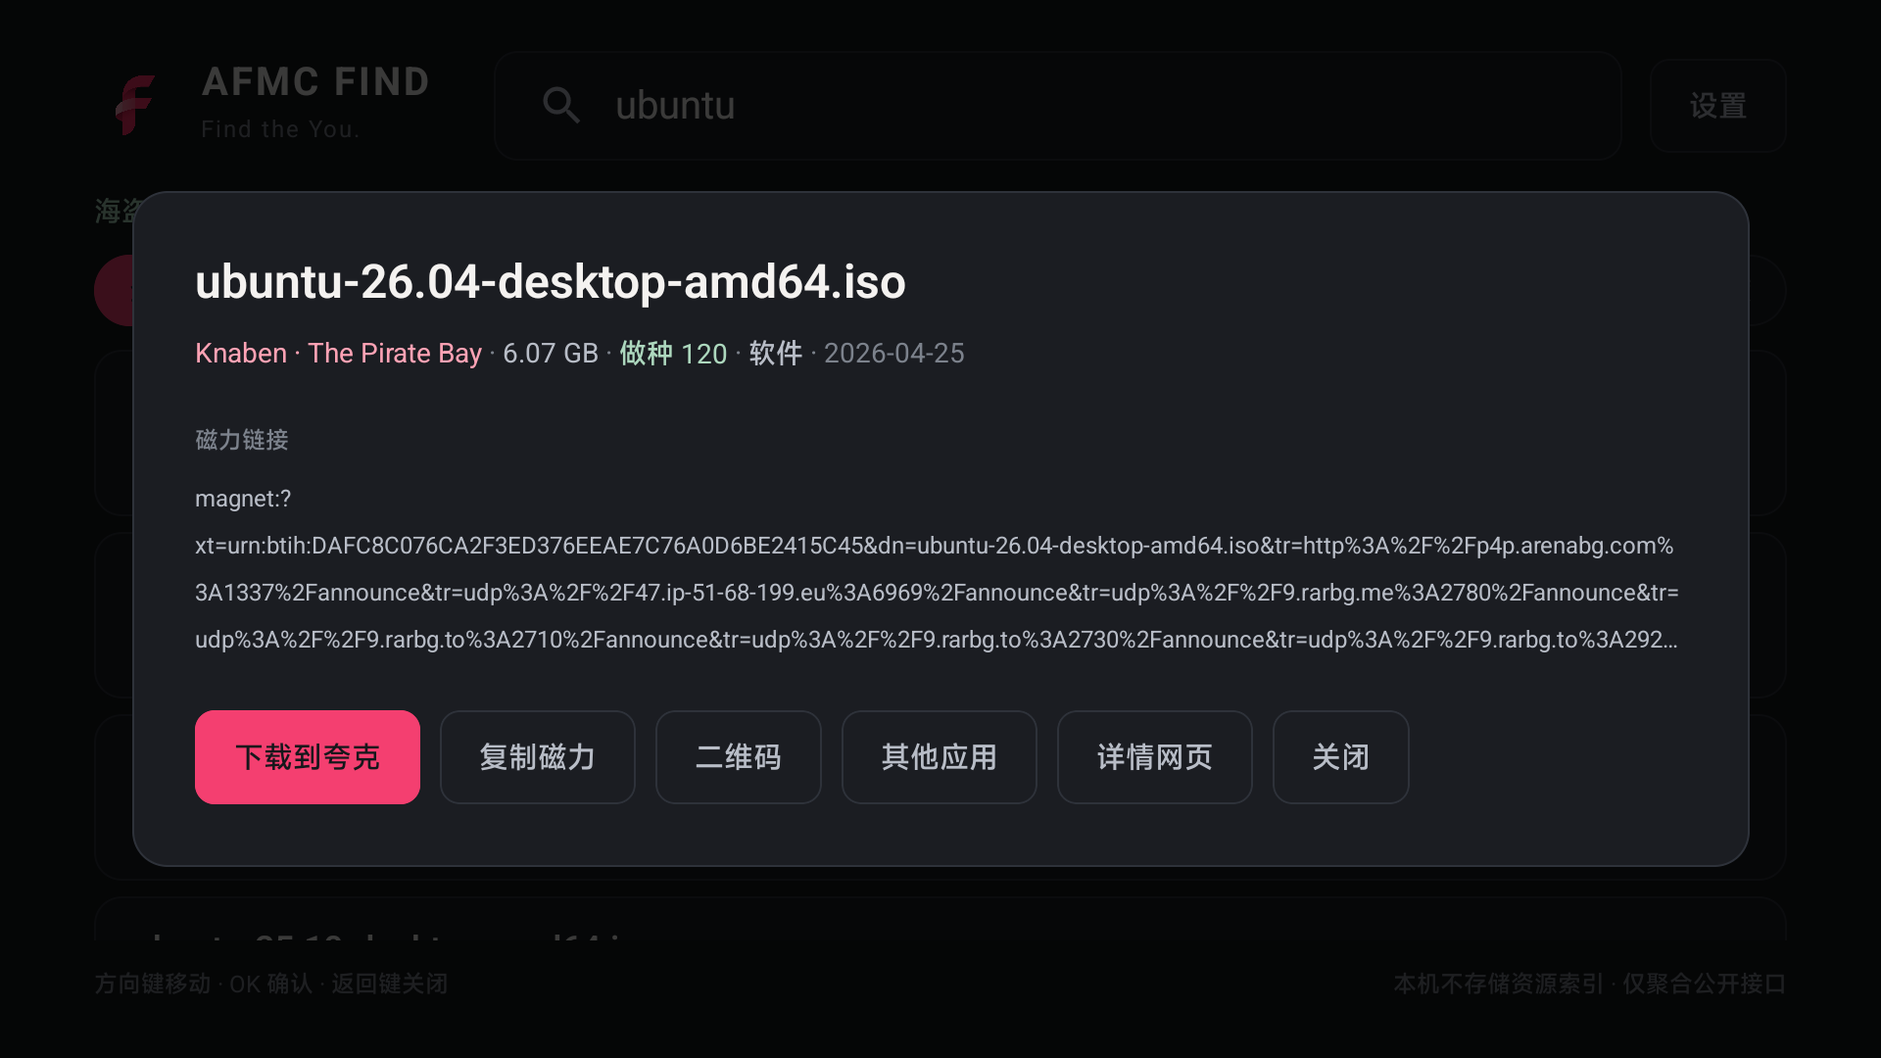
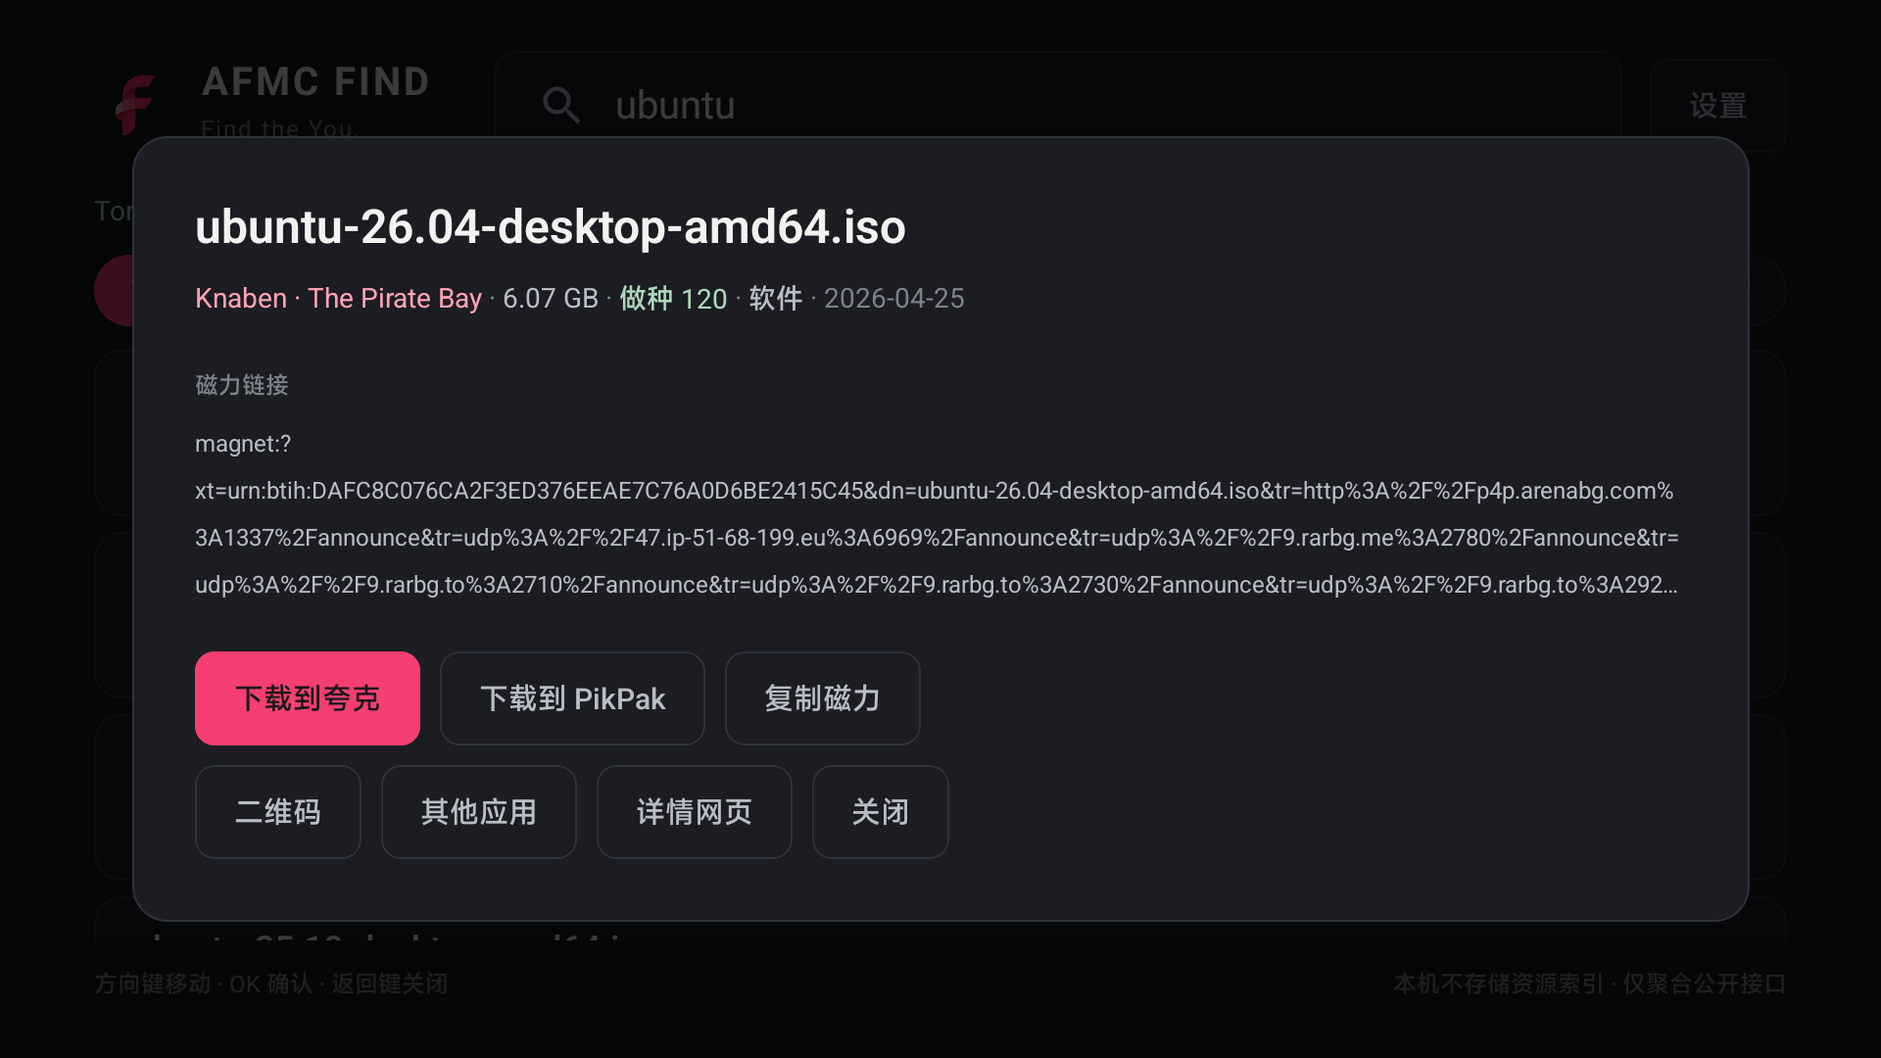
Nyaa 默认关闭并迁移老配置；详情页新增 PikPak 一键下载；排序器按查询上下文复用并缓存 canonical，首屏降至 0.34s

diff --git a/app/src/main/java/com/afmc/find/tv/core/Ranking.kt b/app/src/main/java/com/afmc/find/tv/core/Ranking.kt
@@ -9,8 +9,11 @@ import kotlin.math.min
 
 /**
  * Port of the desktop SearchQuality rules: canonicalisation, hard constraints, match tiers and scoring.
- * All patterns are compiled once at class-load time — compiling them per row made ranking of a few hundred
- * rows take seconds on a TV CPU.
+ *
+ * Ranking hot path notes (TV CPU is slow):
+ * - every Regex is compiled once at class load;
+ * - query-derived values (canonical form, constraint tokens, software flag) are computed once per search;
+ * - canonical(title) is memoised because the same title is canonicalised several times per row.
  */
 object Ranking {
     private val CJK = Regex("[\\u3400-\\u9fff]")
@@ -55,6 +58,11 @@ object Ranking {
         RegexOption.IGNORE_CASE,
     )
 
+    /** Bounded LRU of canonical titles; the same row is canonicalised 3–4 times while ranking. */
+    private val canonicalCache = object : LinkedHashMap<String, String>(256, 0.75f, true) {
+        override fun removeEldestEntry(eldest: MutableMap.MutableEntry<String, String>) = size > 4096
+    }
+
     fun canonical(text: String): String {
         var s = Normalizer.normalize(text, Normalizer.Form.NFKC).lowercase()
         s = s.replace("中文字幕", "中字")
@@ -69,6 +77,10 @@ object Ranking {
         s = RE_4K.replace(s, "2160p")
         s = RE_8K.replace(s, "4320p")
         return RE_NON_WORD.replace(s, " ").trim()
+    }
+
+    private fun canonicalCached(text: String): String = synchronized(canonicalCache) {
+        canonicalCache.getOrPut(text) { canonical(text) }
     }
 
     private fun chineseNumber(raw: String): Int {
@@ -88,45 +100,57 @@ object Ranking {
         else " $text ".contains(" $token ")
 
     fun constraints(query: String): List<String> {
-        val canonical = canonical(query)
+        val c = canonical(query)
         val out = LinkedHashSet<String>()
-        RE_CONSTRAINT.findAll(canonical).forEach { out.add(it.value.lowercase()) }
+        RE_CONSTRAINT.findAll(c).forEach { out.add(it.value.lowercase()) }
         RE_VERSION.findAll(query).forEach { out.add(canonical(it.value)) }
-        listOf("国语", "粤语", "中字", "双语").forEach { if (canonical.contains(it)) out.add(it) }
+        listOf("国语", "粤语", "中字", "双语").forEach { if (c.contains(it)) out.add(it) }
         return out.toList()
     }
 
+    /** Everything derived from the query, computed once per search instead of once per row. */
+    class QueryContext(query: String) {
+        val canonical: String = canonical(query)
+        val constraints: List<String> = constraints(query)
+        val tokens: List<String> = canonical.split(' ').filter { it.isNotBlank() }.distinct()
+        val nameTokens: List<String> = run {
+            var name = " $canonical "
+            constraints.forEach { name = name.replace(" $it ", " ") }
+            name.split(' ').filter { it.isNotBlank() }.distinct()
+        }
+        val softwareQuery: Boolean = categoryOf(TorrentResult(title = query, source = "query")) == "软件"
+        val hasVersion: Boolean = RE_DIGIT_DOT.containsMatchIn(query)
+        val extrasInQuery: Boolean = RE_EXTRA.containsMatchIn(query)
+        val seriesQuery: Boolean = RE_SERIES.containsMatchIn(canonical)
+    }
+
     fun matchesConstraints(query: String, title: String): Boolean {
-        val t = canonical(title)
+        val t = canonicalCached(title)
         return constraints(query).all { containsToken(t, it) }
     }
 
     /** 0 = name and constraints matched, 1 = name matched but constraints missing, 2 = partial, 3 = no name match. */
-    fun matchTier(query: String, title: String): Int {
-        val q = canonical(query)
+    fun matchTier(ctx: QueryContext, title: String): Int {
+        val q = ctx.canonical
         if (q.isEmpty()) return 0
-        val cons = constraints(query)
-        var name = " $q "
-        cons.forEach { name = name.replace(" $it ", " ") }
-        val tokens = name.split(' ').filter { it.isNotBlank() }.distinct()
-        val t = canonical(title)
-        if (tokens.isEmpty()) return if (cons.all { containsToken(t, it) }) 0 else 3
+        val tokens = ctx.nameTokens
+        val t = canonicalCached(title)
+        if (tokens.isEmpty()) return if (ctx.constraints.all { containsToken(t, it) }) 0 else 3
         val matched = tokens.count { containsToken(t, it) }
         if (matched == 0) return 3
         if (matched < tokens.size) return 2
-        return if (cons.all { containsToken(t, it) }) 0 else 1
+        return if (ctx.constraints.all { containsToken(t, it) }) 0 else 1
     }
 
-    private fun nameOrderScore(query: String, title: String): Double {
-        var name = " " + canonical(query) + " "
-        constraints(query).forEach { name = name.replace(" $it ", " ") }
-        name = RE_CODE_SUFFIX.replace(name, "")
-        val tokens = name.split(' ').filter { it.isNotBlank() }
+    fun matchTier(query: String, title: String): Int = matchTier(QueryContext(query), title)
+
+    private fun nameOrderScore(ctx: QueryContext, title: String): Double {
+        val tokens = ctx.nameTokens
         if (tokens.isEmpty()) return 0.0
 
         var clean = RE_TITLE_PREFIX.replace(title, "")
         clean = RE_URL_PREFIX.replace(clean, "")
-        val words = canonical(clean).split(' ').filter { it.isNotBlank() }
+        val words = canonicalCached(clean).split(' ').filter { it.isNotBlank() }
 
         var position = -1
         var first = -1
@@ -140,17 +164,17 @@ object Ranking {
             position = found
         }
         var seriesBonus = 0.0
-        if (RE_SERIES.containsMatchIn(canonical(query))) {
+        if (ctx.seriesQuery) {
             val boundary = words.indexOfFirst { RE_SERIES_BOUNDARY.matches(it) }
             if (boundary > 0 && words.take(boundary) == tokens) seriesBonus = 24.0
         }
         return 12.0 + (if (first == 0) 30.0 else if (first <= 2) 12.0 else 0.0) + seriesBonus
     }
 
-    fun score(query: String, row: TorrentResult, nowSeconds: Long): Double {
-        val q = canonical(query)
-        val title = canonical(row.title)
-        val tokens = q.split(' ').filter { it.isNotBlank() }.distinct()
+    fun score(ctx: QueryContext, row: TorrentResult, nowSeconds: Long): Double {
+        val q = ctx.canonical
+        val title = canonicalCached(row.title)
+        val tokens = ctx.tokens
         if (tokens.isEmpty()) return 0.0
         val coverage = tokens.count { containsToken(title, it) }.toDouble() / tokens.size
 
@@ -158,15 +182,14 @@ object Ranking {
         val tags = techTags(row.title)
 
         var score = 70.0 * coverage * coverage + if (q == title) 5.0 else 0.0
-        score += nameOrderScore(query, row.title)
+        score += nameOrderScore(ctx, row.title)
         if (category != "其他") score += 8.0
         if (tags.isNotEmpty()) score += 8.0
         if (q == title && category == "其他" && tags.isEmpty()) score -= 10.0
 
-        val softwareQuery = categoryOf(TorrentResult(title = query, source = "query")) == "软件"
-        if ((softwareQuery || RE_DIGIT_DOT.containsMatchIn(query)) && !RE_EXTRA.containsMatchIn(query)) {
+        if ((ctx.softwareQuery || ctx.hasVersion) && !ctx.extrasInQuery) {
             if (RE_EXTRA.containsMatchIn(row.title)) score -= 30.0
-            if (softwareQuery && (category == "书籍" || RE_VIDEO_FILE.containsMatchIn(row.title))) score -= 35.0
+            if (ctx.softwareQuery && (category == "书籍" || RE_VIDEO_FILE.containsMatchIn(row.title))) score -= 35.0
         }
 
         score += min(20.0, log10(1.0 + max(0, row.seeders ?: 0)) * 5.0)
@@ -176,9 +199,11 @@ object Ranking {
                 score += 5.0 / (1.0 + days / 365.0)
             }
         }
-        score -= constraints(query).count { !containsToken(title, it) } * 100.0
+        score -= ctx.constraints.count { !containsToken(title, it) } * 100.0
         return score
     }
+
+    fun score(query: String, row: TorrentResult, nowSeconds: Long): Double = score(QueryContext(query), row, nowSeconds)
 
     fun categoryOf(row: TorrentResult): String {
         val text = (row.category + " " + row.title).lowercase()
@@ -200,9 +225,8 @@ object Ranking {
         RE_TECH.findAll(title).map { it.value }.distinct().take(5).toList()
 
     fun rankAll(query: String, rows: List<TorrentResult>, nowSeconds: Long = System.currentTimeMillis() / 1000): List<SearchHit> {
-        val hits = rows.map { row ->
-            SearchHit(row, matchTier(query, row.title), score(query, row, nowSeconds))
-        }
+        val ctx = QueryContext(query)
+        val hits = rows.map { row -> SearchHit(row, matchTier(ctx, row.title), score(ctx, row, nowSeconds)) }
         return hits.sortedWith(
             compareBy<SearchHit> { it.tier }
                 .thenByDescending { it.score }

diff --git a/app/src/main/java/com/afmc/find/tv/ui/Overlays.kt b/app/src/main/java/com/afmc/find/tv/ui/Overlays.kt
@@ -139,33 +139,60 @@ fun DetailOverlay(hit: SearchHit, onClose: () -> Unit) {
                 overflow = TextOverflow.Ellipsis,
             )
 
-            Spacer(Modifier.height(24.dp))
+            Spacer(Modifier.height(22.dp))
+            val quarkIntent = remember { launcherIntent(context, "com.quark.yun.tv") }
+            val pikpakInstalled = remember {
+                runCatching { context.packageManager.getPackageInfo("com.pikcloud.pikpak", 0) }.isSuccess
+            }
+            val magnet = result.magnet
+            val hasQuark = quarkIntent != null
+            val hasPikpak = pikpakInstalled && !magnet.isNullOrBlank()
+
             Row(horizontalArrangement = Arrangement.spacedBy(10.dp)) {
-                val quarkIntent = remember { launcherIntent(context, "com.quark.yun.tv") }
-                ActionButton(
-                    text = if (quarkIntent != null) "下载到夸克" else "打开磁力",
-                    accent = true,
-                    modifier = Modifier.focusRequester(firstFocus),
-                    onClick = {
-                        val magnet = result.magnet
-                        when {
-                            magnet.isNullOrBlank() -> Toast.makeText(context, "这条结果没有磁力链接", Toast.LENGTH_SHORT).show()
-                            quarkIntent != null -> {
+                when {
+                    hasQuark -> ActionButton(
+                        text = "下载到夸克",
+                        accent = true,
+                        modifier = Modifier.focusRequester(firstFocus),
+                        onClick = {
+                            if (magnet.isNullOrBlank()) {
+                                Toast.makeText(context, "这条结果没有磁力链接", Toast.LENGTH_SHORT).show()
+                            } else {
                                 copyText(context, magnet, "磁力已复制，在夸克「离线下载」里粘贴")
                                 runCatching {
-                                    context.startActivity(quarkIntent.addFlags(Intent.FLAG_ACTIVITY_NEW_TASK))
+                                    context.startActivity(quarkIntent!!.addFlags(Intent.FLAG_ACTIVITY_NEW_TASK))
                                 }.onFailure {
                                     Toast.makeText(context, "无法打开夸克，磁力已复制", Toast.LENGTH_LONG).show()
                                 }
                             }
-                            else -> openUri(context, magnet)
-                        }
-                    },
-                )
-                if (!result.magnet.isNullOrBlank()) {
-                    ActionButton("复制磁力", onClick = { copyText(context, result.magnet, "已复制磁力链接") })
+                        },
+                    )
+                    hasPikpak -> ActionButton(
+                        text = "下载到 PikPak",
+                        accent = true,
+                        modifier = Modifier.focusRequester(firstFocus),
+                        onClick = { sendMagnet(context, "com.pikcloud.pikpak", magnet) },
+                    )
+                    else -> ActionButton(
+                        text = "打开磁力",
+                        accent = true,
+                        modifier = Modifier.focusRequester(firstFocus),
+                        onClick = { openUri(context, magnet) },
+                    )
+                }
+                if (hasQuark && hasPikpak) {
+                    ActionButton("下载到 PikPak", onClick = { sendMagnet(context, "com.pikcloud.pikpak", magnet) })
+                }
+                if (!magnet.isNullOrBlank()) {
+                    ActionButton("复制磁力", onClick = { copyText(context, magnet, "已复制磁力链接") })
+                }
+            }
+
+            Spacer(Modifier.height(10.dp))
+            Row(horizontalArrangement = Arrangement.spacedBy(10.dp)) {
+                if (!magnet.isNullOrBlank()) {
                     ActionButton("二维码", onClick = { showQr = true }, modifier = Modifier.focusRequester(qrFocus))
-                    ActionButton("其他应用", onClick = { openUri(context, result.magnet) })
+                    ActionButton("其他应用", onClick = { openUri(context, magnet) })
                 }
                 result.detailsUrl?.let { url ->
                     ActionButton("详情网页", onClick = { openUri(context, url) })
@@ -480,6 +507,16 @@ private fun launcherIntent(context: Context, packageName: String): Intent? {
         addCategory(Intent.CATEGORY_LEANBACK_LAUNCHER)
         component = android.content.ComponentName(info.packageName, info.name)
         addFlags(Intent.FLAG_ACTIVITY_NEW_TASK)
+    }
+}
+
+private fun sendMagnet(context: Context, packageName: String, magnet: String?) {
+    if (magnet.isNullOrBlank()) return
+    val intent = Intent(Intent.ACTION_VIEW, Uri.parse(magnet))
+        .setPackage(packageName)
+        .addFlags(Intent.FLAG_ACTIVITY_NEW_TASK)
+    runCatching { context.startActivity(intent) }.onFailure {
+        copyText(context, magnet, "无法直接打开，磁力已复制")
     }
 }
 

diff --git a/app/src/main/java/com/afmc/find/tv/core/SearchEngine.kt b/app/src/main/java/com/afmc/find/tv/core/SearchEngine.kt
@@ -18,6 +18,17 @@ import java.util.Collections
 class Prefs(context: Context) {
     private val sp = context.getSharedPreferences("afmc_find_tv", Context.MODE_PRIVATE)
 
+    init {
+        // 1.3.0 起 Nyaa 默认关闭：老安装一次性从启用列表移除，用户仍可在设置里重新打开。
+        if (sp.getInt("defaults_version", 0) < 2) {
+            val current = sp.getStringSet("enabled_sources", null)
+            if (current != null) {
+                sp.edit().putStringSet("enabled_sources", current.toMutableSet().apply { remove("nyaa") }).apply()
+            }
+            sp.edit().putInt("defaults_version", 2).apply()
+        }
+    }
+
     var enabledSources: Set<String>
         get() = sp.getStringSet("enabled_sources", null) ?: SourceCatalog.defaultEnabled
         set(value) = sp.edit().putStringSet("enabled_sources", value).apply()
@@ -81,6 +92,7 @@ class SearchEngine(private val prefs: Prefs) {
                 val cooldown = synchronized(health) { health[source.id] }
                 if (cached == null && cooldown != null && cooldown.blockedUntil > sourceStarted) {
                     // 刚刚失败过的源先跳过，避免每次搜索都为同一个死链等超时。
+                    android.util.Log.i("AFMC-FIND", "${source.name}: skipped (cooldown)")
                     val outcome = SourceOutcome(source.name, 0, "跳过")
                     withContext(Dispatchers.Main) { onProgress(outcome, Ranking.rankAll(query, Ranking.dedupe(snapshot()))) }
                     return@async emptyList()
@@ -155,14 +167,8 @@ class SearchEngine(private val prefs: Prefs) {
     suspend fun warmUp() = coroutineScope {
         prefs.buildSources().forEach { source ->
             launch(Dispatchers.IO) {
-                val ok = runCatching { com.afmc.find.tv.net.Http.head(source.host) }.isSuccess
-                if (!ok) {
-                    synchronized(health) {
-                        val failures = (health[source.id]?.failures ?: 0) + 1
-                        health[source.id] = Health(failures, System.currentTimeMillis() + 2 * 60_000L)
-                    }
-                    android.util.Log.i("AFMC-FIND", "warm-up: ${source.name} unreachable, cooling down")
-                }
+                // 只建立 TCP/TLS 连接，不用探测结果判定来源死活（HEAD 对慢站不可靠）。
+                runCatching { com.afmc.find.tv.net.Http.head(source.host) }
             }
         }
     }

diff --git a/app/src/main/java/com/afmc/find/tv/core/SourceCatalog.kt b/app/src/main/java/com/afmc/find/tv/core/SourceCatalog.kt
@@ -15,7 +15,7 @@ object SourceCatalog {
         SourceInfo("knaben", "Knaben", "综合聚合 · 官方 API v2 · 显示原始索引来源"),
         SourceInfo("bitsearch", "BitSearch", "综合搜索 · 官方 API · 免费额度 200 请求/IP/天"),
         SourceInfo("piratebay", "海盗湾", "APIBay 直连 · 标题/类别/大小/做种/时间 · 按哈希去重"),
-        SourceInfo("nyaa", "Nyaa", "动漫、音乐及东亚资源 · 官方 RSS · 单次最多 75 条"),
+        SourceInfo("nyaa", "Nyaa", "动漫、音乐及东亚资源 · 默认关闭：大陆网络常被重置", defaultEnabled = false),
         SourceInfo("dmhy", "动漫花园", "中文动漫、音乐等 · 关键词 RSS · 做种/大小未知不估算"),
         SourceInfo("torrentscsv", "Torrents.csv", "综合资源 · 公开 API · 游标翻页，最多 3 页 · 5 分钟缓存"),
         SourceInfo("torznab", "Torznab / Jackett", "自建索引器 · 填写 API 地址与 Key 后参与聚合", defaultEnabled = false),

diff --git a/app/src/main/java/com/afmc/find/tv/sources/Sources.kt b/app/src/main/java/com/afmc/find/tv/sources/Sources.kt
@@ -86,12 +86,12 @@ class BitSearchSource : SearchSource {
     }
 
     override fun search(query: String): List<TorrentResult> {
-        val body = Http.get("https://bitsearch.eu/api/v1/search?q=${enc(query)}&limit=100&sort=relevance&page=1")
+        val body = Http.get("https://bitsearch.eu/api/v1/search?q=${enc(query)}&limit=50&sort=relevance&page=1")
         val root = JSONObject(body)
         if (!root.optBoolean("success", true)) return emptyList()
         val rows = root.optJSONArray("results") ?: return emptyList()
         val out = ArrayList<TorrentResult>()
-        for (i in 0 until min(rows.length(), 100)) {
+        for (i in 0 until min(rows.length(), 50)) {
             val item = rows.optJSONObject(i) ?: continue
             val title = item.optString("title").trim()
             if (title.isEmpty()) continue

diff --git a/README.md b/README.md
@@ -31,19 +31,20 @@
 
 | 场景 | 首屏结果 | 全部完成 |
 |---|---|---|
-| 冷启动搜索 `ubuntu` | 0.55s | 3.5s |
+| 冷启动搜索 `ubuntu` | 0.34s | ~1s（动漫花园等慢源后台补齐） |
 | 同一关键词再搜 | 0.38s | 1.2s |
 | 优化前 | 2.7s | 17.5s |
 
 ## 功能
 
 - DNS 优先 IPv4，避免部分网络 IPv6 路由不可用导致的超时。
-- 6 个内置搜索源并行查询：Knaben、BitSearch、海盗湾（APIBay）、Nyaa、动漫花园、Torrents.csv。
+- 5 个默认搜索源并行查询：Knaben、BitSearch、海盗湾（APIBay）、动漫花园、Torrents.csv；Nyaa 默认关闭（大陆网络常被重置，可在设置里打开）。
 - 可选接入自建 **Torznab / Jackett** 索引器（地址 + API Key，支持局域网 HTTP）。
 - 同一 infohash 只保留做种最好的一条；排序按“关键词覆盖率 → 名称顺序 → 年份/季集约束 → 做种 → 时间”。
 - 分类筛选（影视 / 动漫 / 音乐 / 软件 / 游戏 / 书籍 / 科研 / 其他）、仅看有做种、按相关度/做种/大小/时间排序。
-- 详情页：完整标题、来源、大小、做种、类别、日期、磁力；主按钮「下载到夸克」= 复制磁力并直接打开电视上的夸克网盘（在「离线下载」里粘贴），未安装夸克时回退为系统磁力打开。
-- 支持复制磁力、二维码（手机扫码取种）、其他应用打开、详情网页。
+- 详情页：完整标题、来源、大小、做种、类别、日期、磁力。动作分两行：
+  - 第一行：**下载到夸克**（复制磁力并拉起夸克网盘 TV，在「离线下载」里粘贴）、**下载到 PikPak**（直接把磁力交给 PikPak，一键创建任务）、复制磁力；
+  - 第二行：二维码（手机扫码取种）、其他应用、详情网页、关闭。
 - 设置页：逐源启用/停用、Torznab 配置；配置保存在本机 SharedPreferences。
 
 ## 已验证
@@ -51,6 +52,7 @@
 - 品牌：图标、Banner、界面强调色与桌面版对齐（粉色 F 标，`#F43F70`）。
 - 设备：小米电视 S Pro 65 Mini LED（`MiTV_MFTR0`，Android 14 / SDK 34，1080p，armeabi-v7a），ADB 安装运行。
 - 夸克：详情页「下载到夸克」已实测可拉起 `com.quark.yun.tv`（夸克网盘 TV 版），磁力同时写入剪贴板。
+- PikPak：详情页「下载到 PikPak」实测直接唤起 PikPak TV 并进入「正在创建任务」，无需粘贴。
 - “ubuntu” 搜索：Knaben 54、BitSearch 100、海盗湾 100、Torrents.csv 25、动漫花园 2，去重排序后列表正常；详情页、二维码、设置开关与滚动均实测通过。
 - JVM 单测：词条规范化、匹配层级、做种加权、去重、磁力解析、RSS/Torznab、日期/大小解析全部通过；`LiveSourcesTest` 在开发机网络下 6/6 源可用。
 
